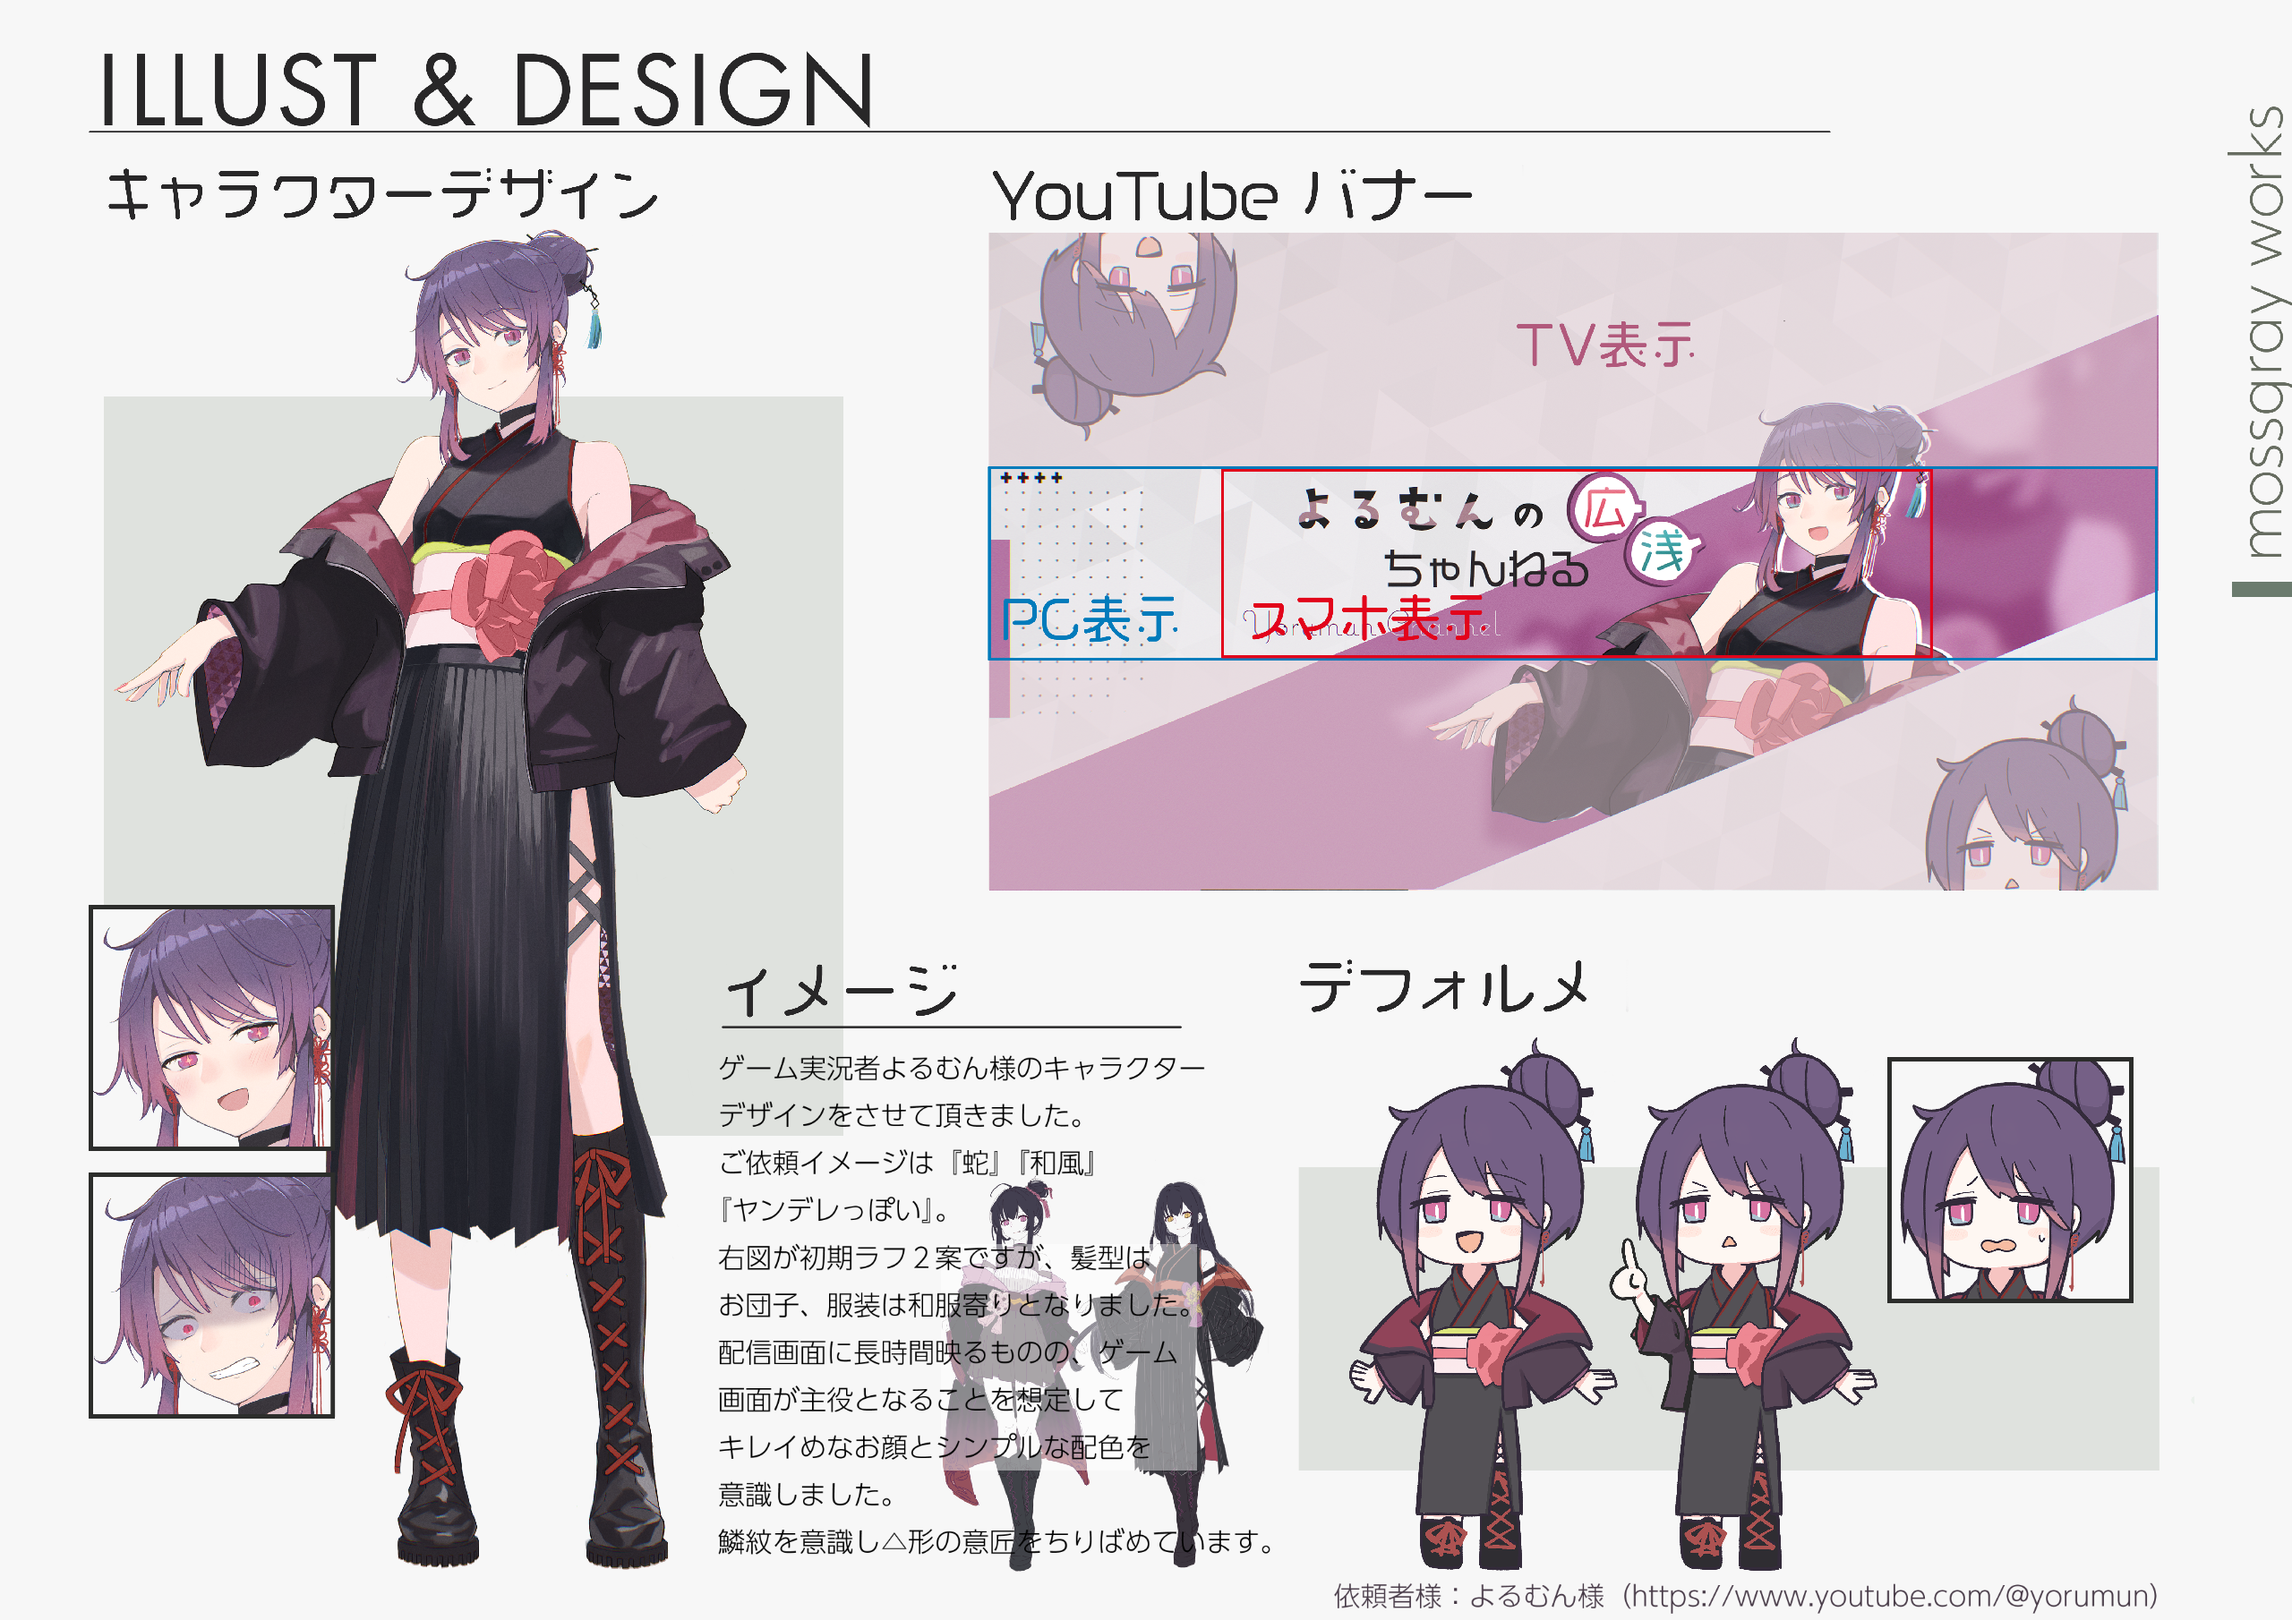
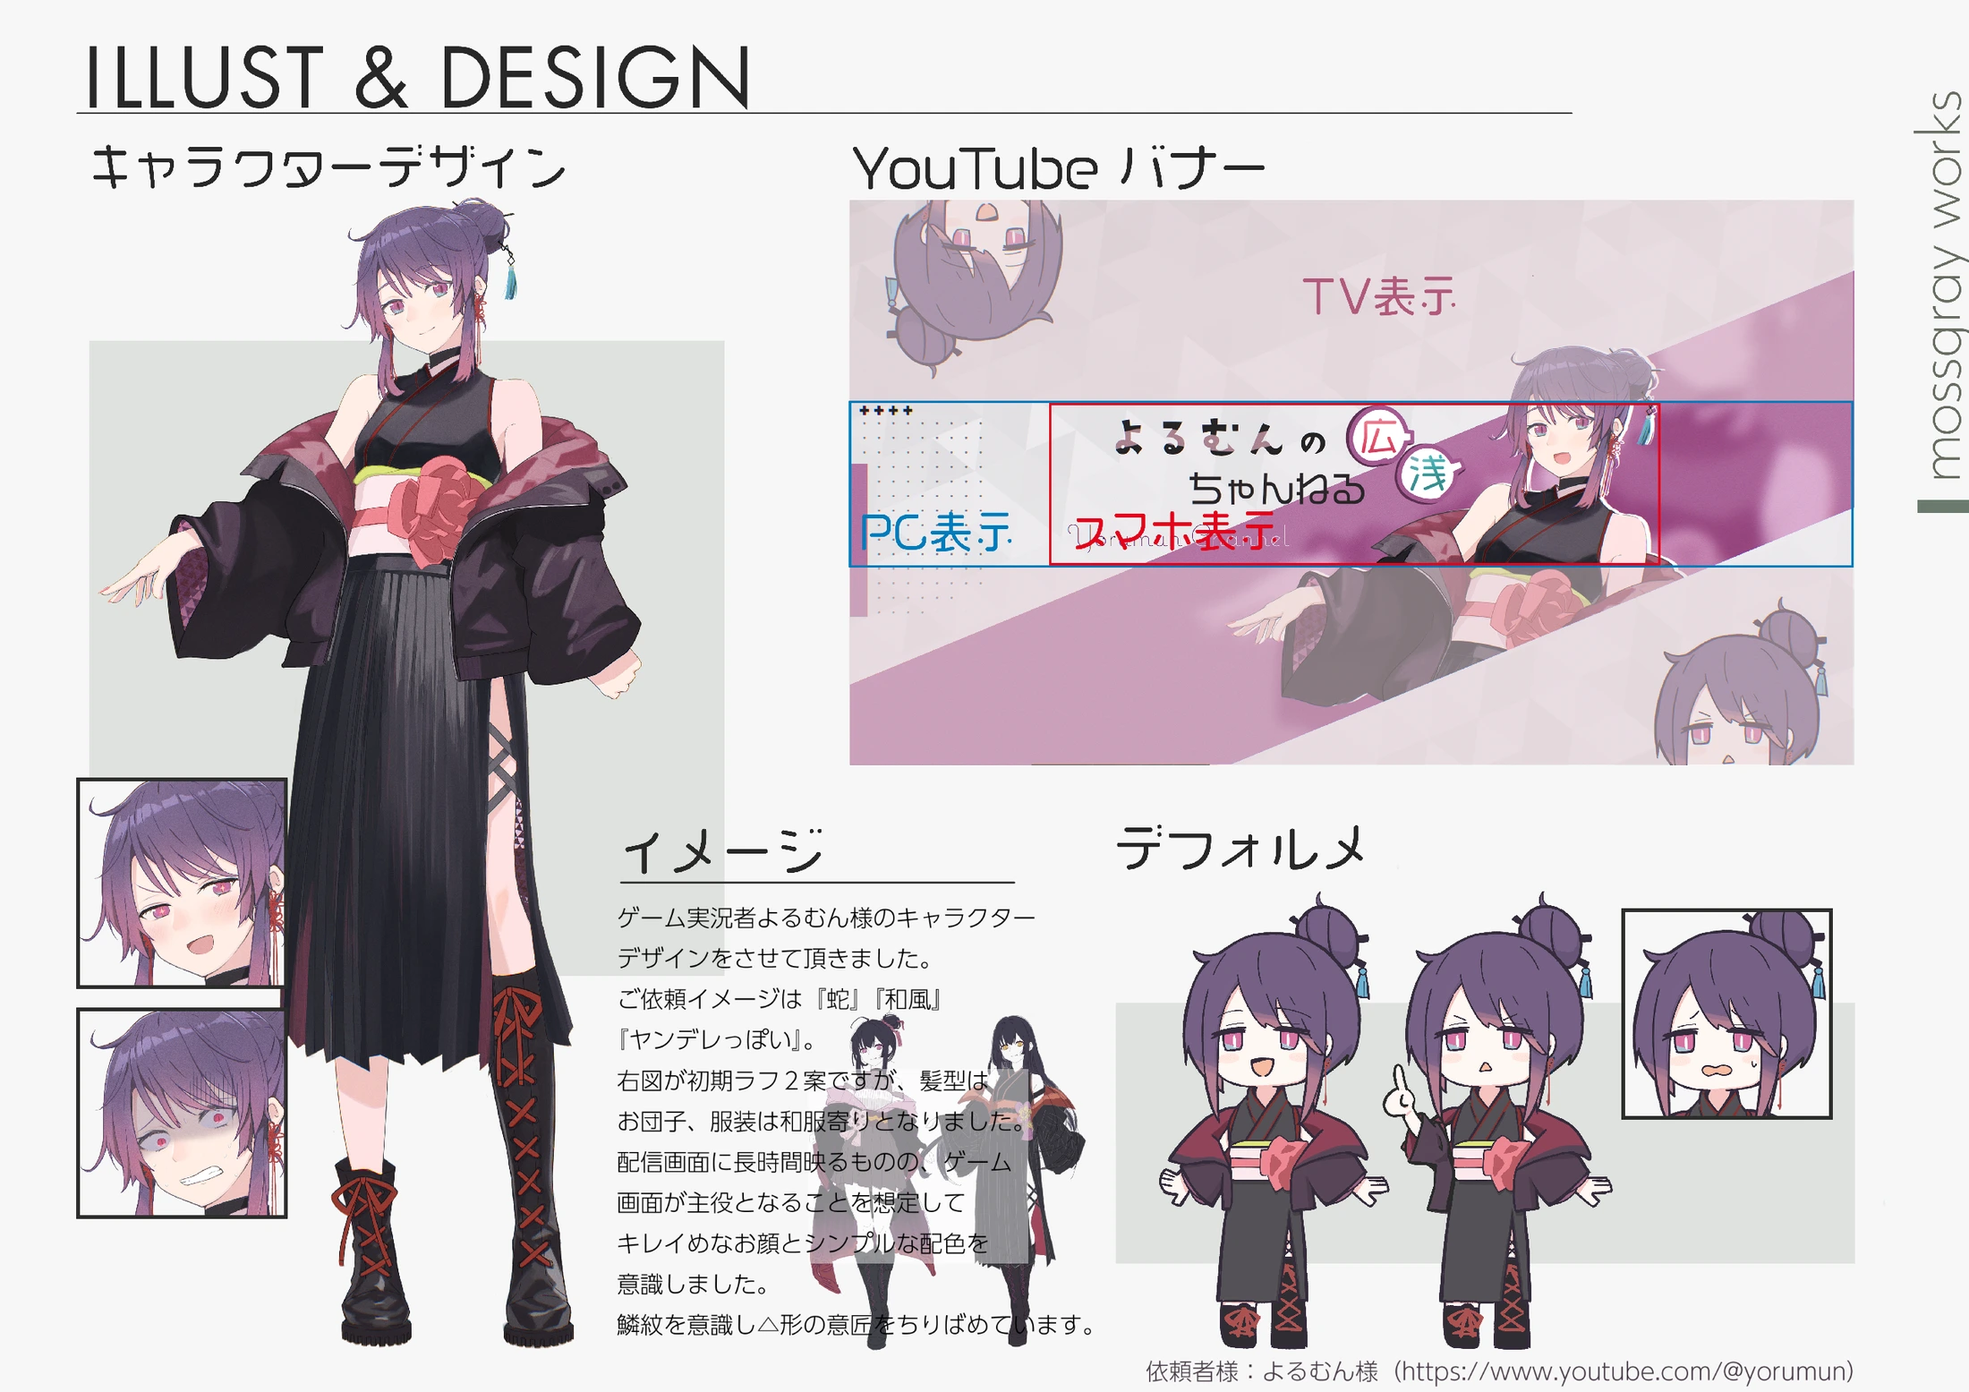
元画像を高画質WebPに置き換え、使っていない画像を削除
- 作品画像：横2200pxを超えるものは2200pxに縮め、品質92のWebPに置き換え（元画像は本人がバックアップ）
- static/images/ の使っていない画像（gamebook・icons・illust・logo・ogp.png）を削除
- 仕様書 第7.1節：リポジトリに置く画像の決まりを追記

diff --git a/docs/spec.md b/docs/spec.md
@@ -267,6 +267,11 @@ PCで惑星にマウスを乗せると、その惑星の代表作を小さな吹
 
 二次創作は`content/fanart/<シリーズID>/`に置き、それ以外の作品は`content/works/`に置きます。画像は、作品のMarkdownと同じフォルダにまとめます（Hugoの「ページバンドル」という仕組み）。作品ごとにフォルダが分かれるので、画像の追加漏れや重複が起きにくくなります。
 
+リポジトリに置く画像は、本当の元画像ではなく「作り直し用の高画質版」です（2026年11月16日決定。元画像は本人がバックアップを持つ）。
+- イラストなど：横2200pxを超えるものは横2200pxに縮め、品質92のWebPにします。2200px以下のものは大きさを変えずにWebPにします。
+- ピクセルアート：縮めるとドットが崩れるので、元の大きさのまま、劣化しない形式（可逆圧縮）のWebPかPNGにします。
+- 履歴は書き換えないので、置き換える前の画像はgitの履歴に残ります。
+
 ### 7.2 惑星の設定（`data/planets.yaml`）
 
 色は、モスさんが決めた色の系統に合わせた仮の色です。ドット絵を描いた後、実際の色を吸い取って差し替えます。

diff --git a/content/works/trpg-void-character/index.md b/content/works/trpg-void-character/index.md
@@ -2,9 +2,9 @@
 title: "TRPGセッション用イラスト制作"
 date: 2024-05-26
 planets: [illustration]
-cover: void-character.png
+cover: void-character.webp
 cover_alt: "長い緑の髪に蛇が混じり、黒い目隠しをした、白いシャツと黒いネクタイ姿の探索者の全身イラスト"
-thumb: void-thumb.png
+thumb: void-thumb.webp
 summary: "クトゥルフ神話TRPGのオリジナルシナリオ「VOID」で遊ぶための、キャラクター（探索者）のデザインとイラストを制作しました。"
 role: "キャラクター（探索者）デザイン、イラスト"
 ---

diff --git a/content/works/oishii-gestalt-mv/index.md b/content/works/oishii-gestalt-mv/index.md
@@ -2,9 +2,9 @@
 title: "「おいしいゲシュタルト」楽曲MV用イラスト制作"
 date: 2025-02-22
 planets: [illustration]
-cover: oishii-gestalt.png
+cover: oishii-gestalt.webp
 cover_alt: "白い角とこうもりの羽、悪魔の尻尾をもつ白い髪に赤い目の少女が、黒いエプロン姿で人差し指を立てているイラスト"
-thumb: oishii-gestalt-sd.png
+thumb: oishii-gestalt-sd.webp
 summary: "ゆうゆさんのご依頼で、楽曲「おいしいゲシュタルト / 鏡音リン」のMV用イラストを制作しました。"
 role: "楽曲MV用イラスト"
 client:

diff --git a/content/works/midorikawa-live2d/index.md b/content/works/midorikawa-live2d/index.md
@@ -2,7 +2,7 @@
 title: "緑川葉 Live2Dモデル制作"
 date: 2024-06-29
 planets: [live2d]
-cover: midorikawa-expressions.jpg
+cover: midorikawa-expressions.webp
 cover_alt: "緑色の髪に葉の髪飾りをつけた少女の、通常・ドヤ・キラ・泣き・驚き・赤面・青ざめ・照れの8つの表情をまとめた表情集"
 thumb: midorikawa-thumb.webp
 summary: "緑川葉様の配信用Live2Dモデルを、「美少女の姿」と「マスコットの姿」の2モデル制作しました。素材の調整からトラッキング調整までを担当しています。"

diff --git a/content/works/kuu-sns-icon/index.md b/content/works/kuu-sns-icon/index.md
@@ -2,9 +2,9 @@
 title: "SNSアイコンイラスト制作"
 date: 2024-05-31
 planets: [illustration]
-cover: kuu-icon.png
+cover: kuu-icon.webp
 cover_alt: "犬の耳と尻尾をもつピンクの髪の少女が、ウインクしながらひまわりの花束を抱える、水色の背景のイラスト"
-thumb: kuu-thumb.png
+thumb: kuu-thumb.webp
 summary: "くぅさんのご依頼で、SNS用アイコンのイラストを制作しました。"
 role: "SNSアイコン用イラスト"
 client:
